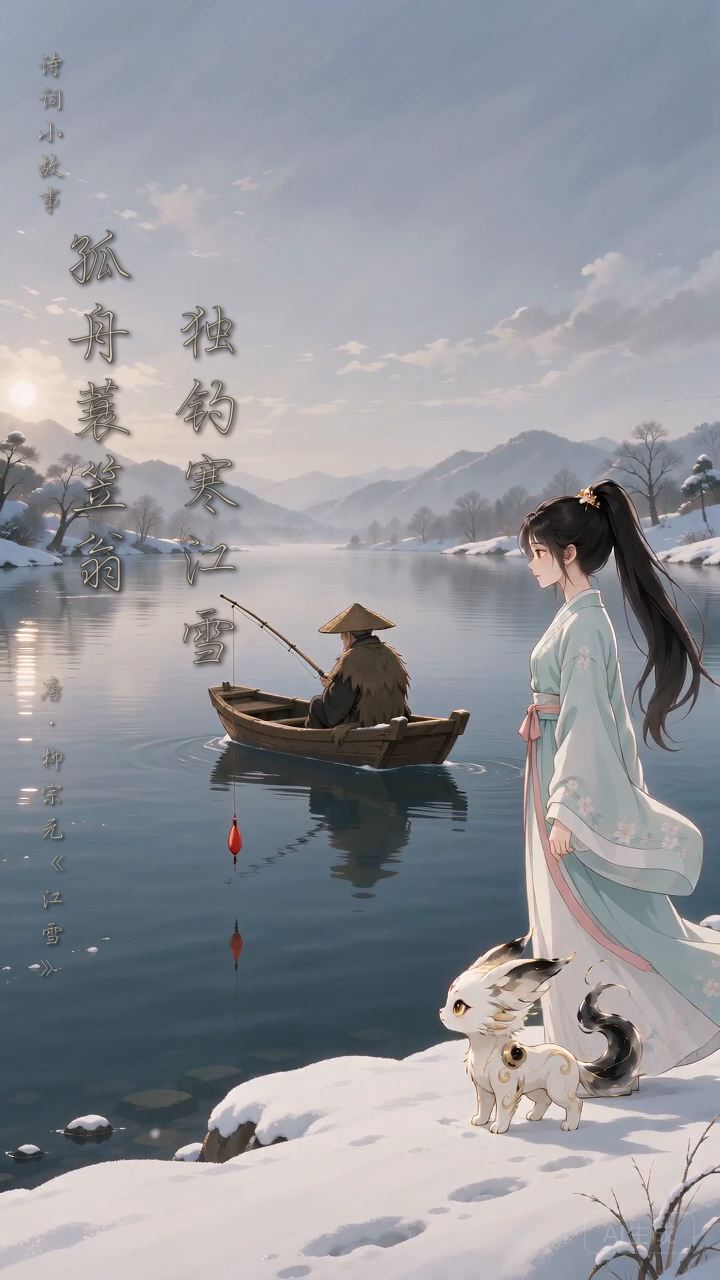
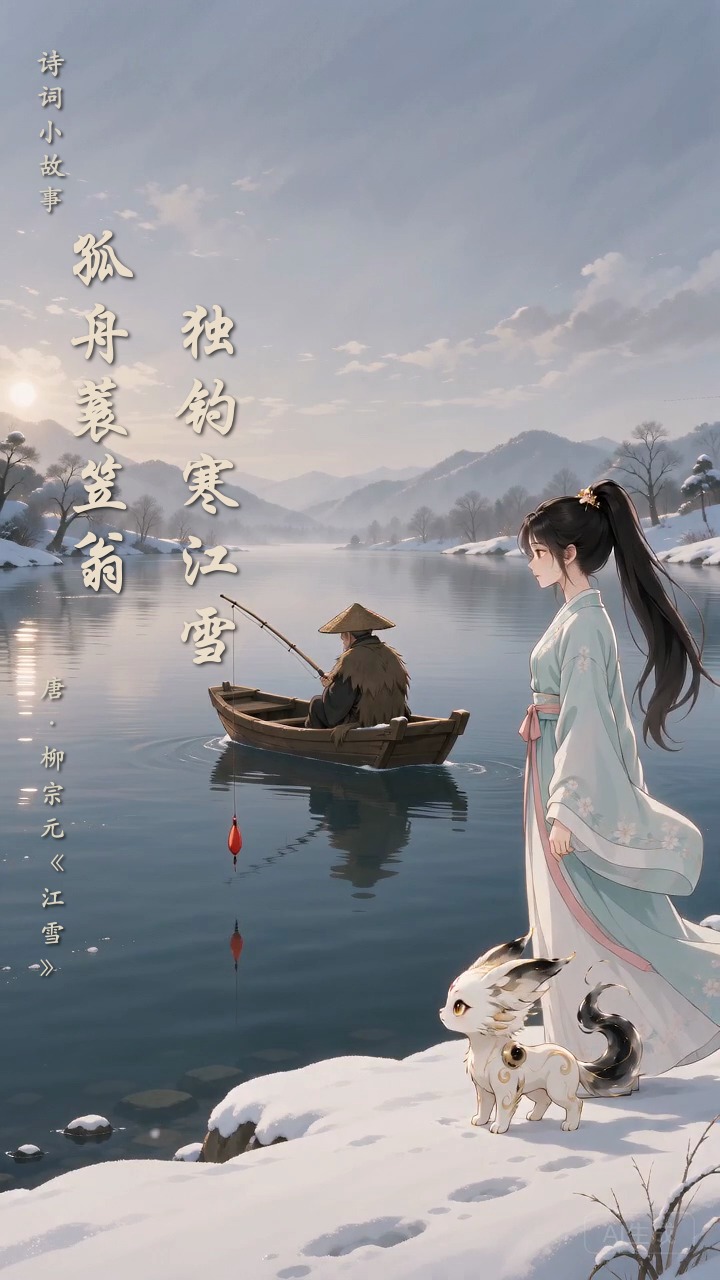
素材：修正江雪封面字体与颜色

diff --git a/zhixia-feihualing/scripts/render_jiangxue_cover.swift b/zhixia-feihualing/scripts/render_jiangxue_cover.swift
@@ -26,10 +26,22 @@ enum CoverError: Error, CustomStringConvertible {
 
 let canvasWidth: CGFloat = 720
 let canvasHeight: CGFloat = 1280
-let warmIvory = NSColor(
-    calibratedRed: 240.0 / 255.0,
-    green: 222.0 / 255.0,
-    blue: 194.0 / 255.0,
+let poemIvory = NSColor(
+    calibratedRed: 228.0 / 255.0,
+    green: 215.0 / 255.0,
+    blue: 192.0 / 255.0,
+    alpha: 1
+)
+let labelIvory = NSColor(
+    calibratedRed: 209.0 / 255.0,
+    green: 200.0 / 255.0,
+    blue: 182.0 / 255.0,
+    alpha: 1
+)
+let attributionIvory = NSColor(
+    calibratedRed: 210.0 / 255.0,
+    green: 203.0 / 255.0,
+    blue: 180.0 / 255.0,
     alpha: 1
 )
 
@@ -39,7 +51,7 @@ func drawVerticalColumn(
     top: CGFloat,
     step: CGFloat,
     font: NSFont,
-    strokeWidth: CGFloat,
+    color: NSColor,
     shadowBlur: CGFloat
 ) {
     let shadow = NSShadow()
@@ -52,9 +64,7 @@ func drawVerticalColumn(
             string: String(character),
             attributes: [
                 .font: font,
-                .foregroundColor: warmIvory,
-                .strokeColor: NSColor(calibratedWhite: 0.08, alpha: 0.58),
-                .strokeWidth: strokeWidth,
+                .foregroundColor: color,
                 .shadow: shadow,
             ]
         )
@@ -81,9 +91,9 @@ do {
         fileURLWithPath: "/System/Library/AssetsV2/com_apple_MobileAsset_Font7/aa99d0b2bad7f797f38b49d46cde28fd4b58876e.asset/AssetData/Xingkai.ttc"
     )
     CTFontManagerRegisterFontsForURL(fontURL as CFURL, .process, nil)
-    guard let labelFont = NSFont(name: "STXingkaiSC-Light", size: 28),
-          let poemFont = NSFont(name: "STXingkaiSC-Light", size: 68),
-          let attributionFont = NSFont(name: "STXingkaiSC-Light", size: 26)
+    guard let labelFont = NSFont(name: "STKaitiSC-Regular", size: 28),
+          let poemFont = NSFont(name: "STXingkaiSC-Bold", size: 68),
+          let attributionFont = NSFont(name: "STKaitiSC-Regular", size: 26)
     else {
         throw CoverError.unavailableFont
     }
@@ -107,10 +117,10 @@ do {
     NSGraphicsContext.current = context
     base.draw(in: NSRect(x: 0, y: 0, width: canvasWidth, height: canvasHeight))
 
-    drawVerticalColumn("诗词小故事", x: 50, top: 54, step: 34, font: labelFont, strokeWidth: -1.1, shadowBlur: 3)
-    drawVerticalColumn("孤舟蓑笠翁", x: 100, top: 218, step: 76, font: poemFont, strokeWidth: -1.7, shadowBlur: 5)
-    drawVerticalColumn("独钓寒江雪", x: 208, top: 292, step: 76, font: poemFont, strokeWidth: -1.7, shadowBlur: 5)
-    drawVerticalColumn("唐·柳宗元《江雪》", x: 52, top: 680, step: 35, font: attributionFont, strokeWidth: -1.1, shadowBlur: 3)
+    drawVerticalColumn("诗词小故事", x: 50, top: 54, step: 34, font: labelFont, color: labelIvory, shadowBlur: 3)
+    drawVerticalColumn("孤舟蓑笠翁", x: 100, top: 218, step: 76, font: poemFont, color: poemIvory, shadowBlur: 4)
+    drawVerticalColumn("独钓寒江雪", x: 208, top: 292, step: 76, font: poemFont, color: poemIvory, shadowBlur: 4)
+    drawVerticalColumn("唐·柳宗元《江雪》", x: 52, top: 680, step: 35, font: attributionFont, color: attributionIvory, shadowBlur: 3)
 
     NSGraphicsContext.restoreGraphicsState()
 

diff --git a/zhixia-feihualing/docs/superpowers/plans/2026-08-26-jiangxue-cover.md b/zhixia-feihualing/docs/superpowers/plans/2026-08-26-jiangxue-cover.md
@@ -15,7 +15,7 @@
 - 栏目签为“诗词小故事”。
 - 主诗句按从左到右列顺序展示“孤舟蓑笠翁”“独钓寒江雪”。
 - 作者题名为“唐·柳宗元《江雪》”。
-- 使用 `STXingkaiSC-Light` 和暖白 `#F0DEC2`，不使用红色标题。
+- 主诗句使用 `STXingkaiSC-Bold` 和实测暖米白 `#E4D7C0`；栏目签与作者题名使用 `STKaitiSC-Regular` 和实测暖灰米白，不使用红色标题或深色描边。
 - 不添加“他怎么还不收竿？”、账号名、完整对白或其他说明文字。
 - 保留成片原有 AI 内容标识，不修改人物和道具。
 
@@ -71,7 +71,7 @@ grep -q '唐·柳宗元《江雪》' "$renderer"
   - `孤舟蓑笠翁`：x=100、top=218、step=76、font=68。
   - `独钓寒江雪`：x=208、top=292、step=76、font=68。
   - `唐·柳宗元《江雪》`：x=52、top=680、step=35、font=26。
-- 所有文字使用暖白色 `(240/255, 222/255, 194/255)`，深灰描边和黑色柔和阴影。
+- 主诗句使用源图实测暖米白 `(228/255, 215/255, 192/255)` 和 `STXingkaiSC-Bold`；小字使用 `STKaitiSC-Regular` 及各自实测暖灰米白；全部移除深色描边，只保留黑色柔和阴影。
 - 输入或字体不可用时返回非零状态，不生成残缺封面。
 
 - [ ] **Step 4: 实现构建脚本并生成封面**
@@ -143,4 +143,3 @@ git diff --check -- zhixia-feihualing/scripts/render_jiangxue_cover.swift zhixia
 ```bash
 git commit -m '素材：生成江雪视频号封面'
 ```
-

diff --git a/zhixia-feihualing/docs/superpowers/specs/2026-08-26-jiangxue-cover-design.md b/zhixia-feihualing/docs/superpowers/specs/2026-08-26-jiangxue-cover-design.md
@@ -29,21 +29,21 @@
 
 - 文案：`诗词小故事`
 - 位置：左上角竖排，位于主诗句上方。
-- 视觉：使用项目既定“行楷-简”字体 `STXingkaiSC-Light`，字号 28 px；暖白 `#F0DEC2` 填充，配 1 px 深灰 `#2B3135` 描边和轻阴影。
+- 视觉：使用端正楷体 `STKaitiSC-Regular`，字号 28 px；按庐山源图实测使用暖灰米白 `#D1C8B6`，不加描边，只保留轻阴影。
 
 ### 主诗句
 
 - 第一列：`孤舟蓑笠翁`
 - 第二列：`独钓寒江雪`
 - 位置：画面左侧中上部双列竖排；沿用庐山封面从左到右依次展示两句的列顺序。
-- 视觉：使用 `STXingkaiSC-Light`，字号 68 px；暖白 `#F0DEC2` 填充，配 2 px 深灰 `#2B3135` 描边和柔和阴影。
+- 视觉：使用更接近庐山手写字形的 `STXingkaiSC-Bold`，字号 68 px；按庐山源图实测使用暖米白 `#E4D7C0`，不加描边，只保留柔和阴影。
 - 层级：封面最醒目的文字，在视频号缩略图中仍可辨认。
 
 ### 作者题名
 
 - 文案：`唐·柳宗元《江雪》`
 - 位置：主诗句左下方竖排，与庐山封面的作者题名位置和比例一致。
-- 视觉：使用 `STXingkaiSC-Light`，字号 26 px；暖白 `#F0DEC2` 填充，配 1 px 深灰 `#2B3135` 描边和轻阴影。
+- 视觉：使用 `STKaitiSC-Regular`，字号 26 px；按庐山源图实测使用暖灰米白 `#D2CBB4`，不加描边，只保留轻阴影。
 
 ## 画面边界
 
